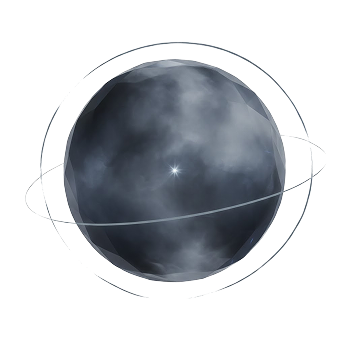
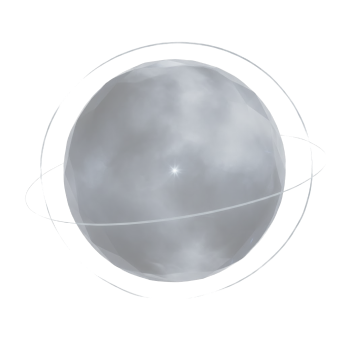
fix: use subdued planet behind chat content

diff --git a/src/chat/ui/ChatScreen.tsx b/src/chat/ui/ChatScreen.tsx
@@ -50,6 +50,7 @@ export function ChatScreen({ runtime }: { runtime: ChatRuntime }) {
           <ChatPlanet />
           {composerHeight > 0 ? (
             <FlashList
+              style={styles.messages}
               data={chat.messages}
               keyExtractor={messageKey}
               getItemType={itemType}
@@ -147,7 +148,14 @@ export function ChatScreen({ runtime }: { runtime: ChatRuntime }) {
 const styles = StyleSheet.create({
   screen: { flex: 1, backgroundColor: colors.background },
   content: { flex: 1 },
-  composerOverlay: { position: "absolute", bottom: 0, left: 0, right: 0 },
+  messages: { zIndex: 1 },
+  composerOverlay: {
+    position: "absolute",
+    bottom: 0,
+    left: 0,
+    right: 0,
+    zIndex: 2,
+  },
   statusShade: { position: "absolute", top: 0, left: 0, right: 0 },
   header: {
     position: "absolute",

diff --git a/README.md b/README.md
@@ -77,7 +77,7 @@ bun expo export --platform all
 - iPhone 11, iOS 18.4.1, Expo Go 57.0.9: после входа в одинаковый аккаунт Expo на телефоне и в CLI проверены загрузка истории, обычное оформление без Liquid Glass, ввод над клавиатурой, отправка и получение ответа на физическом устройстве.
 - После изменения компоновки повторно проверены прокрутка под шапкой и вводом в iOS Simulator, многострочный ввод над клавиатурой на Pixel 9 и iPhone 11, доступность последнего ответа в конце списка.
 - Фокус по нижней свободной области composer проверен на Pixel 9 и iPhone 11; отправка, анимация ожидания и появление ответа записаны в iOS Simulator. Плавность оценена визуально, замеров FPS нет.
-- На iPhone 11 проверены неподвижные звёзды и подъём отдельной планеты при открытии клавиатуры. Повторная проверка этого изменения на Pixel отложена: устройство временно занято пользователем. Сообщённая пользователем краткая серая вспышка при открытии клавиатуры остаётся на проверке: запись перехода с физического iPhone через инструмент не сохранилась.
+- На iPhone 11 и Pixel 9 проверены неподвижные звёзды и подъём отдельной планеты при открытии клавиатуры. Используется предоставленный вариант Unactive; сообщения и поле ввода расположены поверх планеты. Сообщённая пользователем краткая серая вспышка при открытии клавиатуры iPhone остаётся на проверке: запись перехода с физического iPhone через инструмент не сохранилась.
 
 Записано видео `pythia-ios-demo.mp4`: отправка, ошибка `Not sent`, ручной `Retry` и ответ без дублирования. Видео передаётся отдельно от исходного кода; локальная папка `artifacts/` исключена из Git.
 
